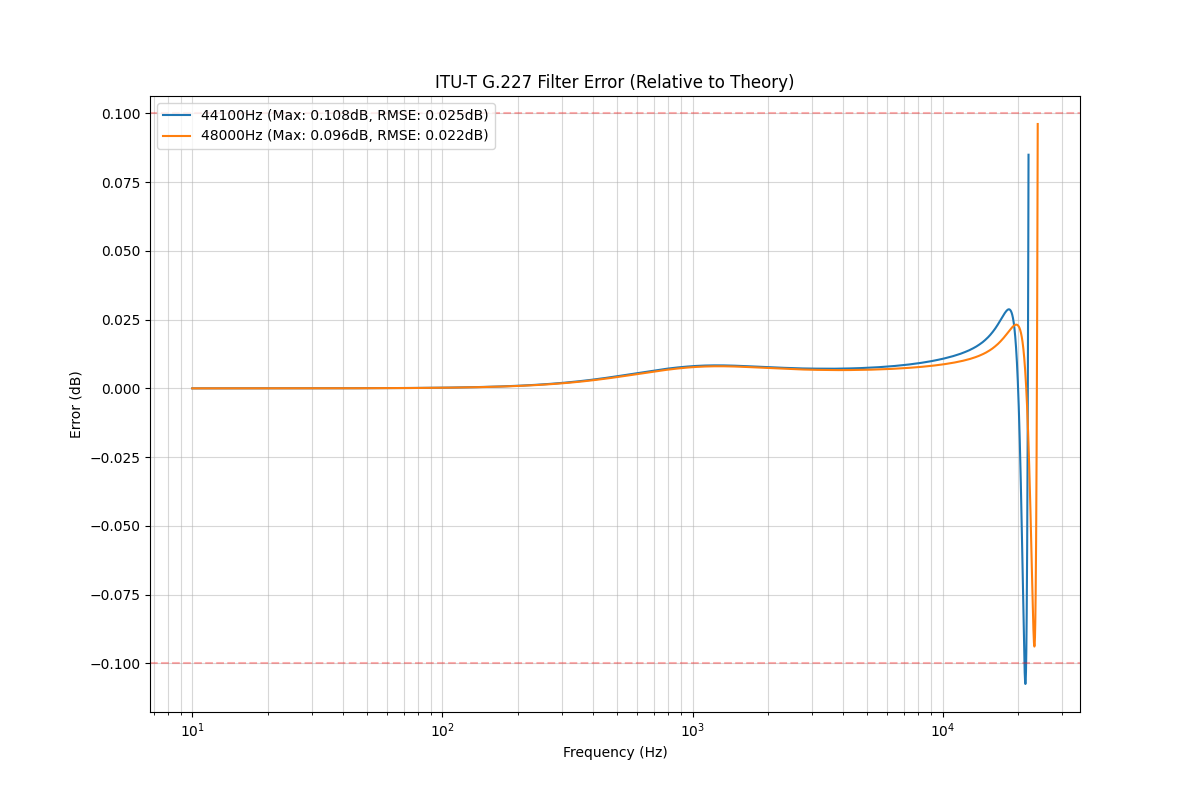
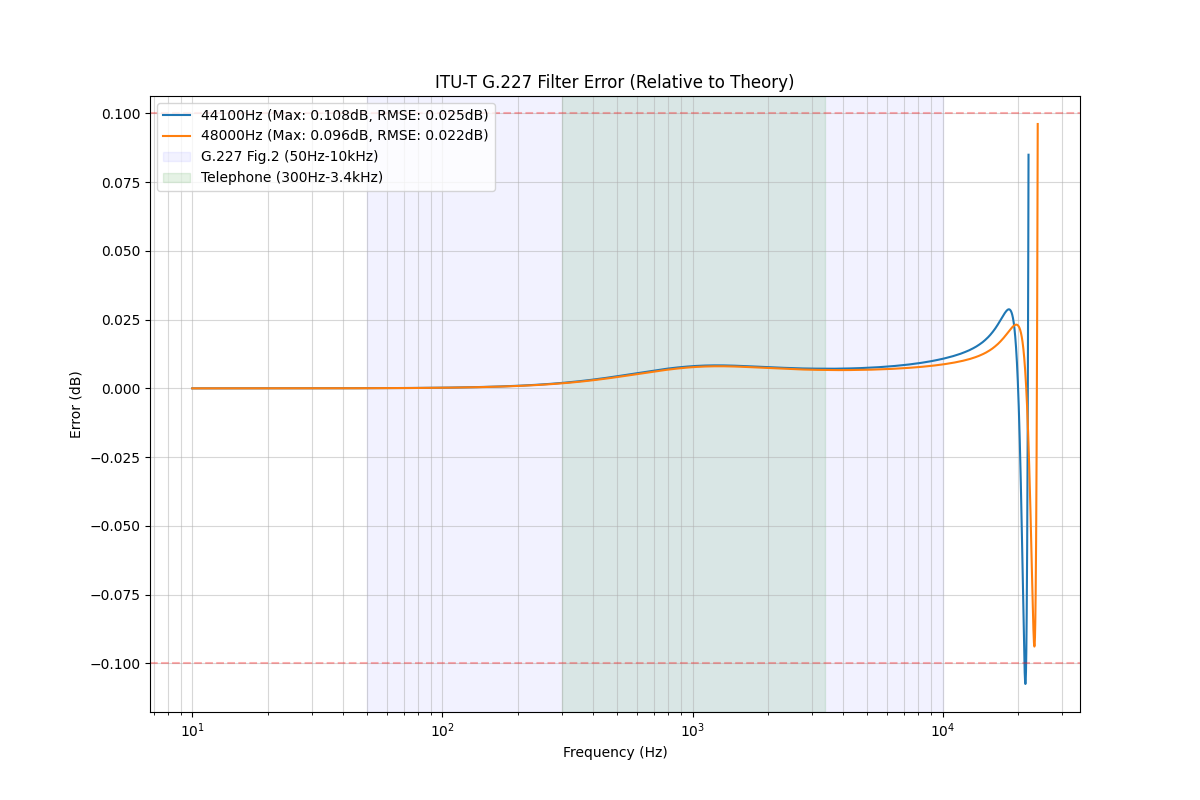
フィルタ誤差評価を複数帯域に拡張
- verify_coeffs.py: 全帯域/G.227 Fig.2範囲/電話帯域の3帯域で評価
- README.md: 誤差を表形式で明記、帯域ごとの根拠を追加
- docs/README.md: 同様に更新

Changed region(s): [[0.4625, 0.0938, 0.7092, 0.9062], [0.1233, 0.1875, 0.37, 0.25]]

diff --git a/scripts/verify_coeffs.py b/scripts/verify_coeffs.py
@@ -32,10 +32,23 @@ def evaluate_performance(sr, iir_num, iir_den, fir_coeffs):
 
     # Error calculation
     error_db = 20 * np.log10(h_actual / h_theory)
-    max_error = np.max(np.abs(error_db))
-    rmse_db = np.sqrt(np.mean(error_db**2))
 
-    return f_m, error_db, max_error, rmse_db
+    def calc_stats(mask):
+        err = error_db[mask]
+        return {'max_error': np.max(np.abs(err)), 'rmse': np.sqrt(np.mean(err**2))}
+
+    # Band definitions
+    bands = {
+        'full_band': (f_m >= 10),                        # 全帯域
+        'g227_fig2': (f_m >= 50) & (f_m <= 10000),       # G.227 Figure 2 範囲
+        'telephone': (f_m >= 300) & (f_m <= 3400),       # 電話音声帯域 (ITU-T G.711)
+    }
+
+    result = {'freq': f_m, 'error_db': error_db}
+    for name, mask in bands.items():
+        result[name] = calc_stats(mask)
+
+    return result
 
 
 def main():
@@ -47,17 +60,31 @@ def main():
     for sr_str in ["44100", "48000"]:
         sr = int(sr_str)
         c = coeffs[sr_str]
-        f, err, max_e, rmse = evaluate_performance(sr, c['iir']['num'], c['iir']['den'], c['fir'])
+        result = evaluate_performance(sr, c['iir']['num'], c['iir']['den'], c['fir'])
+
+        full = result['full_band']
+        g227 = result['g227_fig2']
+        tel = result['telephone']
 
         print(f"Sampling Rate: {sr} Hz")
-        print(f"  Max Error: {max_e:.4f} dB")
-        print(f"  RMSE: {rmse:.4f} dB")
+        print(f"  Full band (10Hz - {sr//2}Hz):")
+        print(f"    Max Error: {full['max_error']:.4f} dB")
+        print(f"    RMSE: {full['rmse']:.4f} dB")
+        print(f"  G.227 Figure 2 (50Hz - 10kHz):")
+        print(f"    Max Error: {g227['max_error']:.4f} dB")
+        print(f"    RMSE: {g227['rmse']:.4f} dB")
+        print(f"  Telephone band (300Hz - 3.4kHz):")
+        print(f"    Max Error: {tel['max_error']:.4f} dB")
+        print(f"    RMSE: {tel['rmse']:.4f} dB")
 
-        plt.semilogx(f, err, label=f"{sr}Hz (Max: {max_e:.3f}dB, RMSE: {rmse:.3f}dB)")
+        plt.semilogx(result['freq'], result['error_db'],
+                     label=f"{sr}Hz (Max: {full['max_error']:.3f}dB, RMSE: {full['rmse']:.3f}dB)")
 
     plt.grid(True, which="both", ls="-", alpha=0.5)
     plt.axhline(0.1, color='r', linestyle='--', alpha=0.3)
     plt.axhline(-0.1, color='r', linestyle='--', alpha=0.3)
+    plt.axvspan(50, 10000, alpha=0.05, color='blue', label='G.227 Fig.2 (50Hz-10kHz)')
+    plt.axvspan(300, 3400, alpha=0.1, color='green', label='Telephone (300Hz-3.4kHz)')
     plt.title("ITU-T G.227 Filter Error (Relative to Theory)")
     plt.xlabel("Frequency (Hz)")
     plt.ylabel("Error (dB)")

diff --git a/docs/README.md b/docs/README.md
@@ -100,7 +100,7 @@ $$
 
 - **4次 IIR フィルタ**: `IIRFilterNode` で実装
 - **97タップ FIR フィルタ**: `ConvolverNode` で実装
-- **相対誤差 RMSE**: 約 0.29%（0.025 dB）
+- **誤差 RMSE**: 全帯域 0.025 dB / G.227 Fig.2 範囲 0.008 dB / 電話帯域 0.007 dB
 
 ### 最終出力
 
